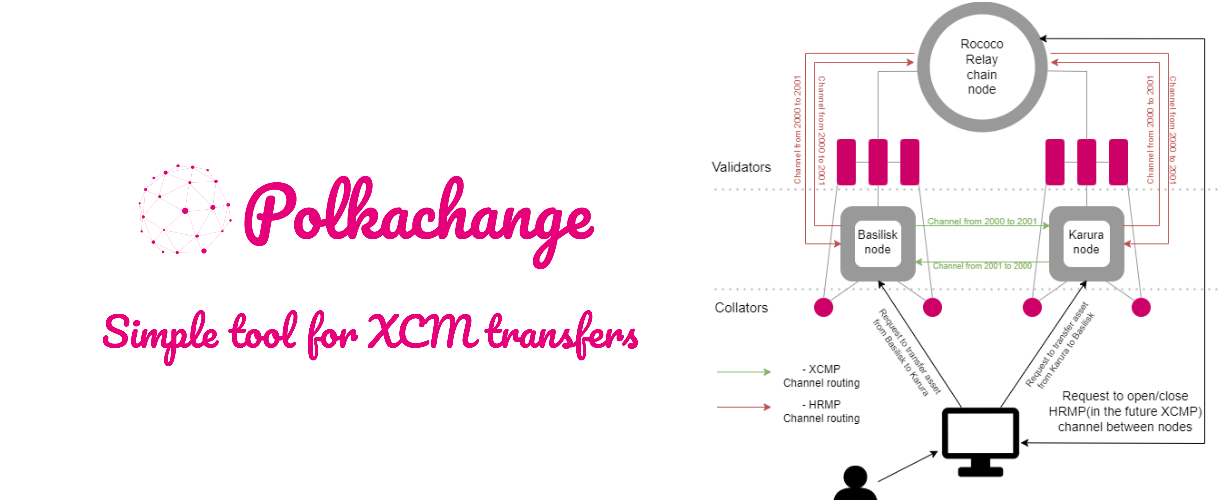
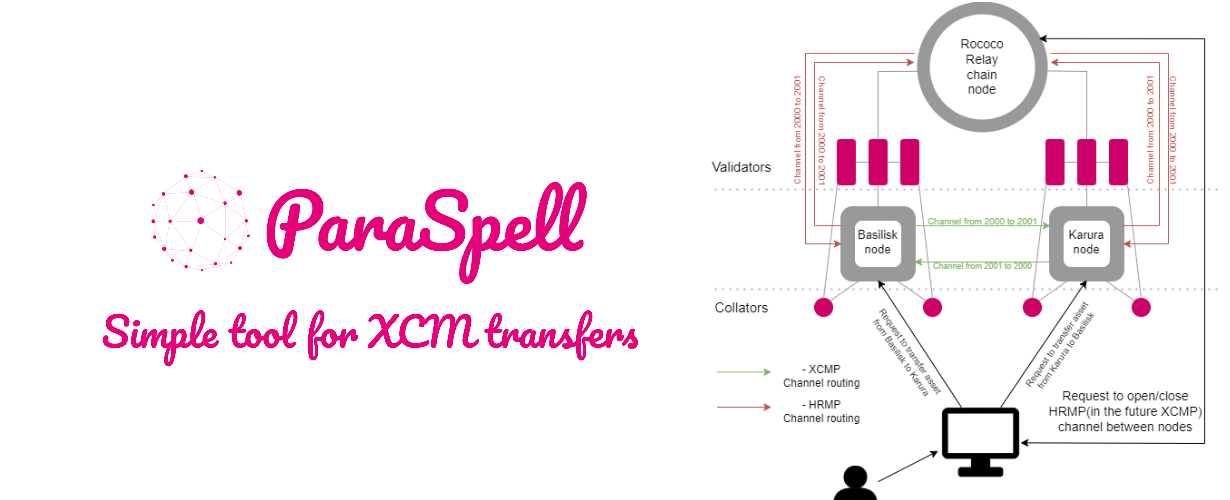
Added PolkadotJS wallet support & new application name ✍
Full wallet support for using wallet during calls will be added soon ✨

Changed region(s): [[0.1236, 0.33, 0.4943, 0.57]]

diff --git a/src/App.vue b/src/App.vue
@@ -2,11 +2,10 @@
 
 <template>
   <div id="app">
-    <vue-metamask ref="metamask" :initConnect="false"></vue-metamask>
     <b-navbar style="margin-bottom: 5%;">
         <template #start>
             <img class="mainLogo rotate" src="./assets/polkachange.svg" />
-              <h1 style="margin-right: 2%;" class="name first" >Polkachange</h1>
+              <h1 style="margin-right: 2%;" class="name first" >ParaSpell</h1>
 
             <b-navbar-item class="top" tag="router-link" to="/home" type="is-link">
                 Home
@@ -31,7 +30,7 @@
                 Transfer
             </b-navbar-item>  
             <b-navbar-dropdown hoverable arrowless boxed class="top" style= "border-style: solid; color: #7a56d5; border-radius: 5px;" label="Log in with" >
-                <b-navbar-item   >
+                <b-navbar-item @click="isCardModalActive = true">
                 <b-icon style="margin-right:5px;" size="is-small" pack="fas" icon="wallet" custom-class="fa-bounce"></b-icon>
                     My wallet  
                 </b-navbar-item>
@@ -62,25 +61,53 @@
             </b-navbar-dropdown>
         </template>
     </b-navbar>
+        <b-modal v-model="isCardModalActive" :width="640" scroll="keep">
+            <b-message 
+              title="Info" 
+              type="is-info" 
+              aria-close-label="Close message">
+              Select account you wish to login with and then close this popup by clicking anywhere around these boxes.
+            </b-message>
+             <b-select placeholder="Select account" expanded style="text-align: center;" @input.native="accountLogin($event)" required>
+              <option v-for="(account, index) in accounts" :key="index">{{account}}</option>
+            </b-select>
+        </b-modal>
     <router-view/>
     <notifications/>
     </div>
 </template>
 
-<script lang="ts">
+<script>
+  import { web3Accounts, web3Enable } from "@polkadot/extension-dapp"
   import { defineComponent } from '@vue/composition-api'
   import '@polkadot/api-augment';
   import useStore from "vuex";
-import store from './store';
+  import store from './store';
   export default defineComponent({
-  name: "LoginData",
   data() {
     return {
-        login: "" as string,
+        login: "",
+        accounts: [],
+        acc: "",
+        isCardModalActive: false
       };
     },
+    mounted: async function () {
+        const extensions = await web3Enable("PolkadotJS")
+        if(extensions.length == 0) {
+          this.$notify({ title: 'Error', text: 'You do not have PolkadotJS extension make sure to install one if you want to use your wallet.', type: 'error', duration: 8000,speed: 100})
+          return
+        }
+        this.accounts = await web3Accounts()
+    },
     methods:{
-    async loginn(value: any){
+    async accountLogin(value){
+      var accSplit = value.target.value.split('{ "address": "')
+      accSplit = accSplit[1].split('{ "address": "')
+      accSplit = accSplit[0].split('"')
+      this.loginn(accSplit[0])
+    },
+    async loginn(value){
       this.login=value
       store.commit('saveAccount', this.login)
     },  

diff --git a/public/index.html b/public/index.html
@@ -5,7 +5,7 @@
     <meta http-equiv="X-UA-Compatible" content="IE=edge">
     <meta name="viewport" content="width=device-width,initial-scale=1.0">
     <link rel="shortcut icon" type="image/png" href="./polkachange.ico"/>
-    <title><%= htmlWebpackPlugin.options.title %></title>
+    <title>ParaSpell</title>
   </head>
   <body>
     <noscript>

diff --git a/src/main.ts b/src/main.ts
@@ -15,7 +15,6 @@ import { FontAwesomeIcon } from "@fortawesome/vue-fontawesome";
 
 library.add(fas);
 Vue.component('vue-fontawesome', FontAwesomeIcon);
-
 Vue.use(Notifications)
 Vue.use(VueCompositionAPI)
 Vue.use(Buefy, {
